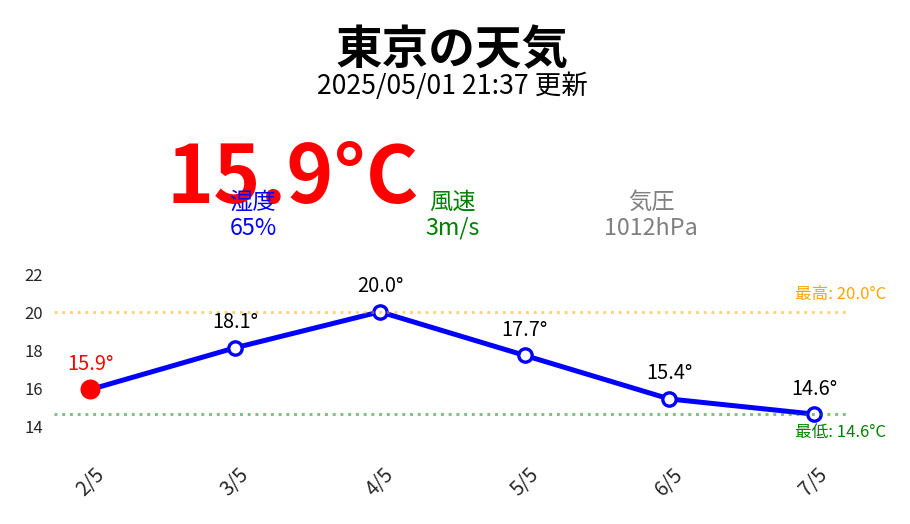
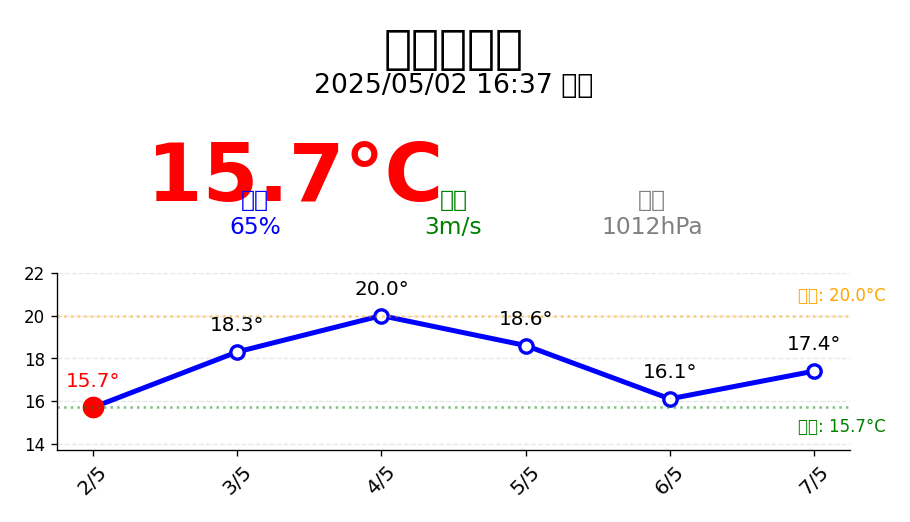
update

diff --git a/main.py b/main.py
@@ -20,127 +20,133 @@ COLORS = {
 }
 
 # フォント設定
-plt.style.use('seaborn')
+#plt.style.use('seaborn')
+
+plt.style.use('seaborn-v0_8')  # ???seaborn????
+plt.style.use('ggplot')        # ??????
+plt.style.use('default')       # ?????????
+
 try:
     plt.rcParams['font.family'] = 'Noto Sans CJK JP'
     plt.rcParams['axes.unicode_minus'] = False
 except:
     plt.rcParams['font.family'] = 'sans-serif'
 
-# データ取得
-client = WeatherClient(city="Tokyo")
-timestamps, temperatures = client.get_weekly_weather()
-current_date = datetime.now().strftime("%Y/%m/%d")
-current_time = datetime.now().strftime("%H:%M")
+def main():
+    # データ取得
+    client = WeatherClient(city="Tokyo")
+    timestamps, temperatures = client.get_weekly_weather()
+    current_date = datetime.now().strftime("%Y/%m/%d")
+    current_time = datetime.now().strftime("%H:%M")
 
-# 日次データ処理
-dates = []
-daily_temps = []
-current_day = ""
-temps_for_day = []
+    # 日次データ処理
+    dates = []
+    daily_temps = []
+    current_day = ""
+    temps_for_day = []
 
-for ts, temp in zip(timestamps, temperatures):
-    day = ts.split()[0]
-    if day != current_day:
-        if current_day:
-            dates.append(current_day)
-            daily_temps.append(round(np.mean(temps_for_day), 1))
-        current_day = day
-        temps_for_day = []
-    temps_for_day.append(temp)
+    for ts, temp in zip(timestamps, temperatures):
+        day = ts.split()[0]
+        if day != current_day:
+            if current_day:
+                dates.append(current_day)
+                daily_temps.append(round(np.mean(temps_for_day), 1))
+            current_day = day
+            temps_for_day = []
+        temps_for_day.append(temp)
 
-if temps_for_day:
-    dates.append(current_day)
-    daily_temps.append(round(np.mean(temps_for_day), 1))
+    if temps_for_day:
+        dates.append(current_day)
+        daily_temps.append(round(np.mean(temps_for_day), 1))
 
-# ダッシュボード作成
-fig = plt.figure(figsize=(EPD_WIDTH/100, EPD_HEIGHT/100), 
-                facecolor=COLORS['background'])
-gs = gridspec.GridSpec(3, 1, height_ratios=[1, 0.8, 2])
+    # ダッシュボード作成
+    fig = plt.figure(figsize=(EPD_WIDTH/100, EPD_HEIGHT/100), 
+                    facecolor=COLORS['background'])
+    gs = gridspec.GridSpec(3, 1, height_ratios=[1, 0.8, 2])
 
-# 1. ヘッダー部分
-ax_header = plt.subplot(gs[0], facecolor=COLORS['background'])
-ax_header.text(0.5, 0.7, "東京の天気", 
-             fontsize=28, ha='center', va='center',
-             color=COLORS['text'], fontweight='bold')
-ax_header.text(0.5, 0.3, f"{current_date} {current_time} 更新", 
-             fontsize=16, ha='center', va='center', color=COLORS['text'])
-ax_header.axis('off')
+    # 1. ヘッダー部分
+    ax_header = plt.subplot(gs[0], facecolor=COLORS['background'])
+    ax_header.text(0.5, 0.7, "東京の天気", 
+                 fontsize=28, ha='center', va='center',
+                 color=COLORS['text'], fontweight='bold')
+    ax_header.text(0.5, 0.3, f"{current_date} {current_time} 更新", 
+                 fontsize=16, ha='center', va='center', color=COLORS['text'])
+    ax_header.axis('off')
 
-# 2. 現在の天気
-ax_current = plt.subplot(gs[1], facecolor=COLORS['background'])
-today_temp = daily_temps[0]
-ax_current.text(0.3, 0.7, f"{today_temp}°C", 
-              fontsize=48, ha='center', va='center',
-              color=COLORS['accent'], fontweight='bold')
+    # 2. 現在の天気
+    ax_current = plt.subplot(gs[1], facecolor=COLORS['background'])
+    today_temp = daily_temps[0]
+    ax_current.text(0.3, 0.7, f"{today_temp}°C", 
+                  fontsize=48, ha='center', va='center',
+                  color=COLORS['accent'], fontweight='bold')
 
-# 環境情報
-env_info = [
-    ("湿度", f"{65}%", COLORS['primary']),
-    ("風速", f"{3}m/s", COLORS['secondary']),
-    ("気圧", f"{1012}hPa", COLORS['muted'])
-]
+    # 環境情報
+    env_info = [
+        ("湿度", f"{65}%", COLORS['primary']),
+        ("風速", f"{3}m/s", COLORS['secondary']),
+        ("気圧", f"{1012}hPa", COLORS['muted'])
+    ]
 
-for i, (label, value, color) in enumerate(env_info):
-    ax_current.text(0.25 + i*0.25, 0.2, f"{label}\n{value}", 
-                  fontsize=14, ha='center', va='center', color=color)
-ax_current.axis('off')
+    for i, (label, value, color) in enumerate(env_info):
+        ax_current.text(0.25 + i*0.25, 0.2, f"{label}\n{value}", 
+                      fontsize=14, ha='center', va='center', color=color)
+    ax_current.axis('off')
 
-# 3. 週間予報 (線グラフ)
-ax_weekly = plt.subplot(gs[2], facecolor=COLORS['background'])
-line = ax_weekly.plot(daily_temps, 
-                    color=COLORS['primary'], 
-                    linewidth=3,
-                    marker='o',
-                    markersize=8,
-                    markerfacecolor='white',
-                    markeredgecolor=COLORS['primary'],
-                    markeredgewidth=2)
+    # 3. 週間予報 (線グラフ)
+    ax_weekly = plt.subplot(gs[2], facecolor=COLORS['background'])
+    line = ax_weekly.plot(daily_temps, 
+                        color=COLORS['primary'], 
+                        linewidth=3,
+                        marker='o',
+                        markersize=8,
+                        markerfacecolor='white',
+                        markeredgecolor=COLORS['primary'],
+                        markeredgewidth=2)
 
-# 今日のポイントを強調
-ax_weekly.plot(0, daily_temps[0], 'o',
-              markersize=12,
-              color=COLORS['accent'])
+    # 今日のポイントを強調
+    ax_weekly.plot(0, daily_temps[0], 'o',
+                  markersize=12,
+                  color=COLORS['accent'])
 
-# 温度ラベル
-for i, (date, temp) in enumerate(zip(dates, daily_temps)):
-    color = COLORS['accent'] if i == 0 else COLORS['text']
-    ax_weekly.text(i, temp+0.8, f"{temp}°", 
-                 ha='center', va='bottom', 
-                 fontsize=12, color=color)
+    # 温度ラベル
+    for i, (date, temp) in enumerate(zip(dates, daily_temps)):
+        color = COLORS['accent'] if i == 0 else COLORS['text']
+        ax_weekly.text(i, temp+0.8, f"{temp}°", 
+                     ha='center', va='bottom', 
+                     fontsize=12, color=color)
 
-# 日付ラベル（日本式: 月/日 形式に変更）
-short_dates = [f"{int(d.split('-')[1])}/{int(d.split('-')[0])}" for d in dates]  # 先頭の0を除去
-ax_weekly.set_xticks(range(len(dates)))
-ax_weekly.set_xticklabels(short_dates, rotation=45, fontsize=12)
+    # 日付ラベル（日本式: 月/日 形式に変更）
+    short_dates = [f"{int(d.split('-')[1])}/{int(d.split('-')[0])}" for d in dates]  # 先頭の0を除去
+    ax_weekly.set_xticks(range(len(dates)))
+    ax_weekly.set_xticklabels(short_dates, rotation=45, fontsize=12)
 
-# 最高・最低気温
-max_temp = max(daily_temps)
-min_temp = min(daily_temps)
-ax_weekly.axhline(max_temp, color=COLORS['highlight'], linestyle=':', alpha=0.5)
-ax_weekly.axhline(min_temp, color=COLORS['secondary'], linestyle=':', alpha=0.5)
-ax_weekly.text(len(dates)-0.5, max_temp+0.5, f"最高: {max_temp}°C", 
-              ha='right', va='bottom', color=COLORS['highlight'])
-ax_weekly.text(len(dates)-0.5, min_temp-0.5, f"最低: {min_temp}°C", 
-              ha='right', va='top', color=COLORS['secondary'])
+    # 最高・最低気温
+    max_temp = max(daily_temps)
+    min_temp = min(daily_temps)
+    ax_weekly.axhline(max_temp, color=COLORS['highlight'], linestyle=':', alpha=0.5)
+    ax_weekly.axhline(min_temp, color=COLORS['secondary'], linestyle=':', alpha=0.5)
+    ax_weekly.text(len(dates)-0.5, max_temp+0.5, f"最高: {max_temp}°C", 
+                  ha='right', va='bottom', color=COLORS['highlight'])
+    ax_weekly.text(len(dates)-0.5, min_temp-0.5, f"最低: {min_temp}°C", 
+                  ha='right', va='top', color=COLORS['secondary'])
 
-# グラフ装飾
-ax_weekly.grid(axis='y', linestyle='--', alpha=0.3)
-ax_weekly.spines['top'].set_visible(False)
-ax_weekly.spines['right'].set_visible(False)
-ax_weekly.set_ylim(min_temp-2, max_temp+2)
+    # グラフ装飾
+    ax_weekly.grid(axis='y', linestyle='--', alpha=0.3)
+    ax_weekly.spines['top'].set_visible(False)
+    ax_weekly.spines['right'].set_visible(False)
+    ax_weekly.set_ylim(min_temp-2, max_temp+2)
 
-# レイアウト調整
-plt.tight_layout(pad=3)
-plt.subplots_adjust(hspace=0.4)
+    # レイアウト調整
+    plt.tight_layout(pad=3)
+    plt.subplots_adjust(hspace=0.4)
 
-# 画像保存
-output_path = './weather_dashboard.png'
-plt.savefig(output_path, dpi=120, facecolor=COLORS['background'],
-           bbox_inches='tight', pad_inches=0.2)
-plt.close()
+    # 画像保存
+    output_path = './weather_dashboard.png'
+    plt.savefig(output_path, dpi=120, facecolor=COLORS['background'],
+               bbox_inches='tight', pad_inches=0.2)
+    plt.close()
 
-print(f"ダッシュボード画像を保存しました: {output_path}")
+    print(f"ダッシュボード画像を保存しました: {output_path}")
 
 # 電子ペーパー表示関数
 def display_on_epaper(image_path):
@@ -161,4 +167,7 @@ def display_on_epaper(image_path):
         print(f"表示エラー: {e}")
 
 # 実行
-display_on_epaper(output_path)
+#display_on_epaper(output_path)
+
+if __name__ == "__main__":
+    main()

diff --git a/test.py b/test.py
@@ -1,0 +1,2 @@
+import matplotlib.pyplot as plt
+print(plt.style.available)
